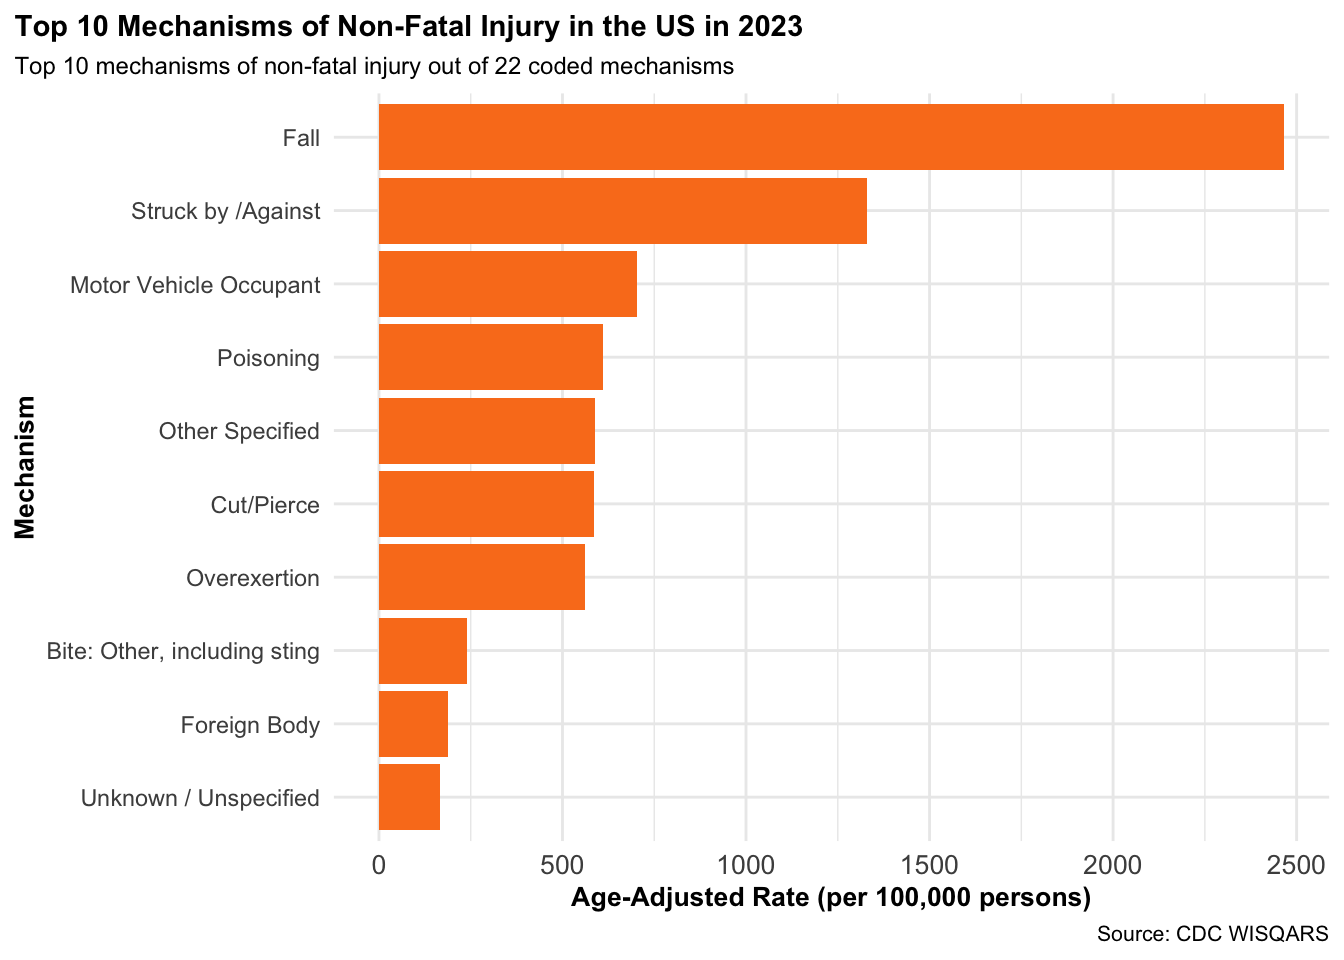
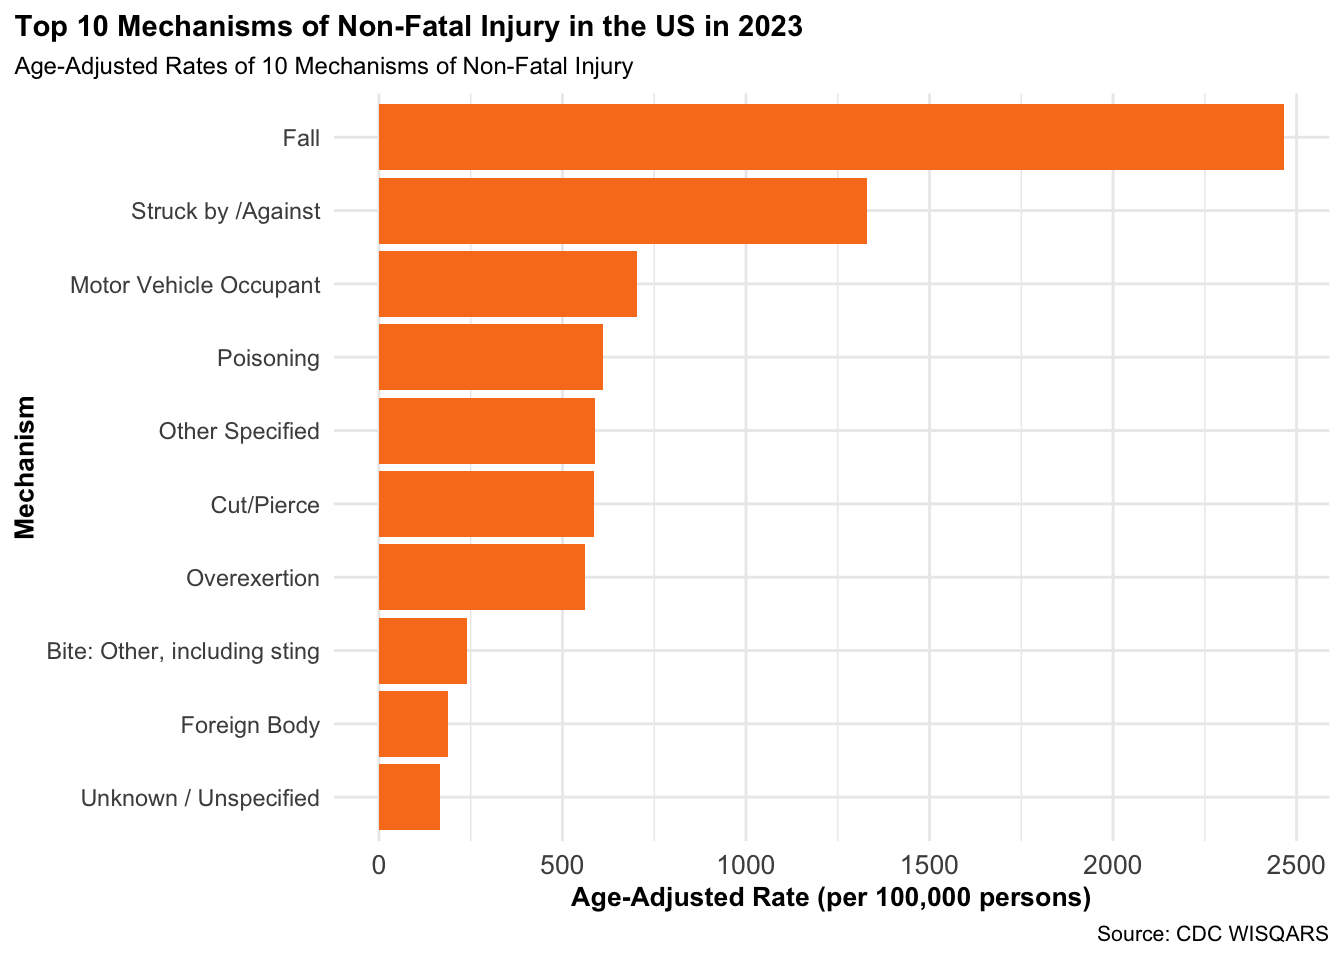
Built site for gh-pages

Changed region(s): [[0.0, 0.0625, 0.5625, 0.0938]]

diff --git a/example_analysis.html b/example_analysis.html
@@ -549,7 +549,7 @@ Important
 <span id="cb8-10"><a href="#cb8-10" aria-hidden="true" tabindex="-1"></a>  <span class="fu">geom_col</span>(<span class="at">fill =</span> <span class="st">"#fa7e1e"</span>) <span class="sc">+</span></span>
 <span id="cb8-11"><a href="#cb8-11" aria-hidden="true" tabindex="-1"></a>  <span class="fu">labs</span>(</span>
 <span id="cb8-12"><a href="#cb8-12" aria-hidden="true" tabindex="-1"></a>    <span class="at">title =</span> <span class="st">"Top 10 Mechanisms of Non-Fatal Injury in the US in 2023"</span>,</span>
-<span id="cb8-13"><a href="#cb8-13" aria-hidden="true" tabindex="-1"></a>    <span class="at">subtitle =</span> <span class="st">"Top 10 mechanisms of non-fatal injury out of 22 coded mechanisms"</span>,</span>
+<span id="cb8-13"><a href="#cb8-13" aria-hidden="true" tabindex="-1"></a>    <span class="at">subtitle =</span> <span class="st">"Age-Adjusted Rates of 10 Mechanisms of Non-Fatal Injury"</span>,</span>
 <span id="cb8-14"><a href="#cb8-14" aria-hidden="true" tabindex="-1"></a>    <span class="at">caption =</span> <span class="st">"Source: CDC WISQARS"</span>,</span>
 <span id="cb8-15"><a href="#cb8-15" aria-hidden="true" tabindex="-1"></a>    <span class="at">y =</span> <span class="st">"Mechanism"</span>,</span>
 <span id="cb8-16"><a href="#cb8-16" aria-hidden="true" tabindex="-1"></a>    <span class="at">x =</span> <span class="st">"Age-Adjusted Rate (per 100,000 persons)"</span></span>
@@ -592,7 +592,7 @@ Important
 <span id="cb9-13"><a href="#cb9-13" aria-hidden="true" tabindex="-1"></a>  <span class="fu">facet_wrap</span>(<span class="sc">~</span>Sex, <span class="at">nrow =</span> <span class="dv">2</span>, <span class="at">scales =</span> <span class="st">"free_y"</span>) <span class="sc">+</span></span>
 <span id="cb9-14"><a href="#cb9-14" aria-hidden="true" tabindex="-1"></a>  <span class="fu">labs</span>(</span>
 <span id="cb9-15"><a href="#cb9-15" aria-hidden="true" tabindex="-1"></a>    <span class="at">title =</span> <span class="st">"Top 10 Mechanisms of Non-Fatal Injury by Sex in the US in 2023"</span>,</span>
-<span id="cb9-16"><a href="#cb9-16" aria-hidden="true" tabindex="-1"></a>    <span class="at">subtitle =</span> <span class="st">"Top 10 mechanisms of non-fatal injury out of 22 coded mechanisms"</span>,</span>
+<span id="cb9-16"><a href="#cb9-16" aria-hidden="true" tabindex="-1"></a>    <span class="at">subtitle =</span> <span class="st">"Age-Adjusted Rates of 10 Mechanisms of Non-Fatal Injury"</span>,</span>
 <span id="cb9-17"><a href="#cb9-17" aria-hidden="true" tabindex="-1"></a>    <span class="at">caption =</span> <span class="st">"Source: CDC WISQARS"</span>,</span>
 <span id="cb9-18"><a href="#cb9-18" aria-hidden="true" tabindex="-1"></a>    <span class="at">y =</span> <span class="st">"Mechanism"</span>,</span>
 <span id="cb9-19"><a href="#cb9-19" aria-hidden="true" tabindex="-1"></a>    <span class="at">x =</span> <span class="st">"Age-Adjusted Rate (per 100,000 persons)"</span></span>
@@ -634,7 +634,7 @@ Important
 <span id="cb10-6"><a href="#cb10-6" aria-hidden="true" tabindex="-1"></a>  <span class="fu">geom_line</span>() <span class="sc">+</span></span>
 <span id="cb10-7"><a href="#cb10-7" aria-hidden="true" tabindex="-1"></a>  <span class="fu">labs</span>(</span>
 <span id="cb10-8"><a href="#cb10-8" aria-hidden="true" tabindex="-1"></a>    <span class="at">title =</span> <span class="st">"Non-Fatal Injury Trend in the US from 2013-2023"</span>,</span>
-<span id="cb10-9"><a href="#cb10-9" aria-hidden="true" tabindex="-1"></a>    <span class="at">subtitle =</span> <span class="st">"Age-adjusted rates by sex and total population"</span>,</span>
+<span id="cb10-9"><a href="#cb10-9" aria-hidden="true" tabindex="-1"></a>    <span class="at">subtitle =</span> <span class="st">"Aggregated Age-Adjusted Rates and Age-Adjusted Rates by Sex"</span>,</span>
 <span id="cb10-10"><a href="#cb10-10" aria-hidden="true" tabindex="-1"></a>    <span class="at">caption =</span> <span class="st">"Source: CDC WISQARS"</span>,</span>
 <span id="cb10-11"><a href="#cb10-11" aria-hidden="true" tabindex="-1"></a>    <span class="at">y =</span> <span class="st">'Age-Adjusted Rate (per 100,000 persons)'</span></span>
 <span id="cb10-12"><a href="#cb10-12" aria-hidden="true" tabindex="-1"></a>  ) <span class="sc">+</span></span>
